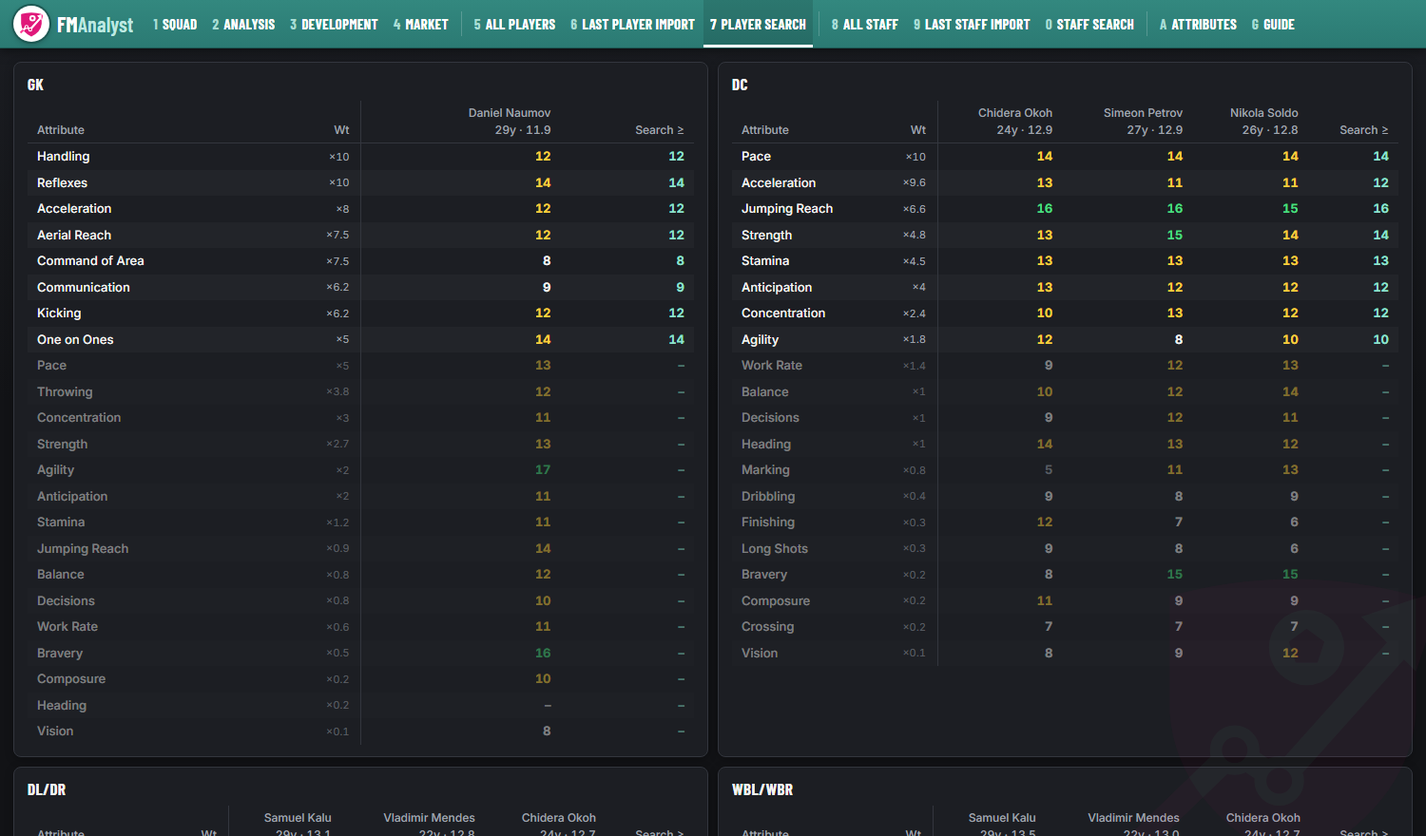
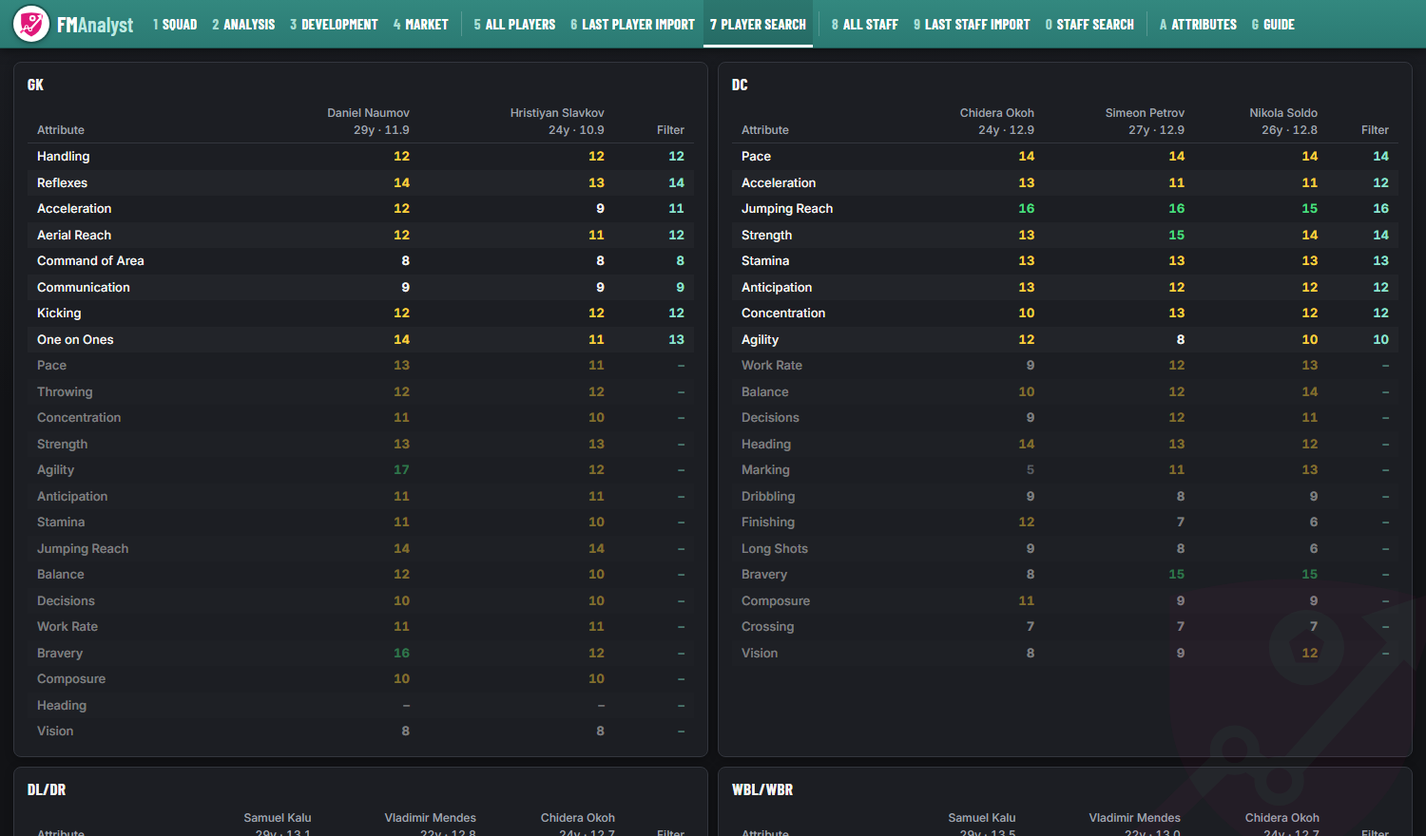
FMAnalyst 1.5.1: one Menu button, About in it, simpler search pages
- A single Menu button (bottom right) replaces Import file…, Saves and the File menu bar: Import file…,
  Open the exports folder, Saves…, About. About (version, settings, project page) left the Guide.
- Player search and Staff search: no weight column; the suggested minimum is now "Filter"; the GK tile
  shows every keeper of yours.
- Attributes: the Weight column is now Value.
- Squad: the Lineup's Hide button is gone.

diff --git a/template.html b/template.html
@@ -87,9 +87,6 @@ __THEME__
   /* ---- Squad: the Lineup and Formations boxes, side by side and one height ---- */
   #squadtop { display: flex; flex-wrap: wrap; gap: 10px; align-items: stretch; margin-bottom: 10px; }
   #squadtop[hidden] { display: none; }
-  #squadtop.closed { align-items: flex-start; }
-  #squadtop.closed #lineup table, #squadtop.closed #lineup .notes, #squadtop.closed #formations { display: none; }
-  #squadtop.closed .ttitle { margin-bottom: 0; }
   #lineup { display: flex; flex: 0 1 auto; flex-direction: column; }
   #lineup table { flex: 1 1 auto; width: auto; height: 100%; }
   #lineup th { color: var(--purple); cursor: default; }
@@ -103,9 +100,6 @@ __THEME__
   #lineup [data-name] { cursor: pointer; }
   #lineup .notes { margin-top: 8px; line-height: 1.7; white-space: normal; }
   .lhead { display: flex; align-items: center; gap: 10px; }
-  .lhead button { padding: 2px 10px; color: var(--fg); font: 600 12px var(--body); background: var(--row); border: 1px solid var(--line);
-                  border-radius: 6px; cursor: pointer; }
-  .lhead button:hover { color: #141414; background: #8fe3cf; }
   #formations { flex: 1 1 380px; min-width: 0; }
   #formations td, #formations th { padding: 3px 8px; }
   #formations tr.f { cursor: pointer; }
@@ -433,31 +427,27 @@ function renderFilters() {
   main.className = "tiles";
   if (!DATA.length) {
     const how = PAGE === "staff_filters"
-      ? "Import staff first: in FM, use the <b>Search - Staff View</b> on a staff search or your club's Staff screen, press <b>F8</b>, then <b>Import file…</b>."
-      : "Import your squad first: press <b>F8</b> on your squad screen in FM, then <b>Import file…</b>.";
+      ? "Import staff first: in FM, use the <b>Search - Staff View</b> on a staff search or your club's Staff screen, press <b>F8</b>, then <b>Menu → Import file…</b>."
+      : "Import your squad first: press <b>F8</b> on your squad screen in FM, then <b>Menu → Import file…</b>.";
     main.innerHTML = `<div class="tile"><div class="ttitle">Nothing to show yet</div><p>${how}</p></div>`;
     return;
   }
   const who = p => `<th class="num">${esc(p.name)}<br><span class="sub">${[p.club, p.age != null && `${p.age}y`, p.score.toFixed(1)].filter(Boolean).join(" · ")}</span></th>`;
-  const line = row => `<tr class="${row.min == null ? "minor" : ""}"><td>${row.attr}</td><td class="num wt">×${row.weight}</td>` +
+  const line = row => `<tr class="${row.min == null ? "minor" : ""}"><td>${row.attr}</td>` +
     row.values.map((v, i) => `<td class="num ${v == null ? "" : attrTier(v)}">${row.labels ? row.labels[i] : v ?? "–"}</td>`).join("") +
     `<td class="num search">${row.min ?? "–"}</td></tr>`;
   main.innerHTML = DATA.map(entry => `<div class="tile">
     <div class="ttitle">${entry.pos}${entry.title ? ` <span class="sub">· ${entry.title}</span>` : ""}</div>
-    <table><thead><tr><th>Attribute</th><th class="num wt">Wt</th>${entry.players.map(who).join("")}<th class="num search">Search ≥</th></tr></thead>
+    <table><thead><tr><th>Attribute</th>${entry.players.map(who).join("")}<th class="num search" title="the minimum to set in FM's search filter (Is At Least)">Filter</th></tr></thead>
     <tbody>${entry.rows.map(line).join("")}</tbody></table></div>`).join("");
 }
 // Squad page: the lineup panel above the table. LINEUP = { slots: [{ label, pos, left, senior: [[players] ×3],
 // extra: { youth, intake } }], extraCols, spare, spareYouth, loanOut } (grid() in score.py)
-const LINEUP_STORE = "fm:__SAVE__:lineup";
 function renderLineup() {
   const box = document.getElementById("lineup"), d = LINEUP, n = 3;
   if (!d) return;
-  let closed = false;
-  try { closed = localStorage.getItem(LINEUP_STORE) === "closed"; } catch (e) {}
   const top = document.getElementById("squadtop");
   top.hidden = false;
-  top.className = closed ? "closed" : "";
   const surname = name => name.split(" ").pop();
   const extra = d.extraCols;
   const entry = (p, youth) => `<div data-name="${esc(p.name)}">` +
@@ -469,17 +459,13 @@ function renderLineup() {
   const heads = ["Starter", "Backup", "Third"];
   const list = (title, ps) => ps.length ? `<div><span class="sub">${title}:</span> ${ps.map(p =>
     `<span title="${esc(p.name)}" data-name="${esc(p.name)}">${esc(surname(p.name))}</span> <span class="sub">${p.age}y ${p.pos} ${FMT.f1(p.v)}</span>`).join(" · ")}</div>` : "";
-  box.innerHTML = `<div class="ttitle lhead">Lineup <button id="ltoggle">${closed ? "Show" : "Hide"}</button></div><table>
+  box.innerHTML = `<div class="ttitle lhead">Lineup</div><table>
     <thead><tr><th></th>${heads.map(h => `<th>${h}</th>`).join("")}${extra.map((c, i) =>
       `<th class="${i ? "" : "split"}" title="${esc(c.title)}">${esc(c.label)}</th>`).join("")}</tr></thead>
     <tbody>${d.slots.map(s => `<tr><td class="slot" title="scored as ${esc(s.pos)}${s.left ? ", left-footed only" : ""}">${esc(s.label)}</td>` +
       s.senior.map((ps, i) => cell(ps, false, i)).join("") + extra.map((c, i) => cell(s.extra[c.key], true, n + i)).join("") + "</tr>").join("")}</tbody>
   </table>
   <div class="notes">${list("Not placed", d.spare)}${list("Youngsters not placed", d.spareYouth)}${list("Out on loan", d.loanOut)}</div>`;
-  document.getElementById("ltoggle").onclick = () => {
-    try { localStorage.setItem(LINEUP_STORE, closed ? "open" : "closed"); } catch (e) {}
-    renderLineup();
-  };
   renderFormations();
 }
 // Beside the lineup: how the squad fits common formations (formations() in score.py), best first; a row opens its XI
@@ -693,7 +679,7 @@ function renderAttributes() {
       " <b>Open this page in the app to save, import or export.</b>"}</div>
   </div>
   <div class="tile wide"><div class="ttitle">Attributes <span class="sub">${counted.length} attributes count${empty.length ? ` · <b class="warn">nothing counts at ${esc(empty.join(", "))}</b>` : ""}</span></div>
-    <div class="wscroll"><table class="weights"><thead><tr><th>Attribute</th><th class="num">Weight</th>${cols.map(p => `<th class="num">${esc(p)}</th>`).join("")}</tr></thead>
+    <div class="wscroll"><table class="weights"><thead><tr><th>Attribute</th><th class="num">Value</th>${cols.map(p => `<th class="num">${esc(p)}</th>`).join("")}</tr></thead>
     <tbody>${counted.map(row).join("")}${unused.length ? `<tr class="divider"><td colspan="${cols.length + 2}">Not counted: give one a weight to count it</td></tr>` + unused.map(row).join("") : ""}</tbody></table></div>
     <div class="sub">Player searches exported with the Search - Outfield Players View have 18 attributes. A position needs 85% of its
       weight known to score a player, so weight the others (not in searches) lightly or searched players may not be scored.</div></div>`;

diff --git a/app.py b/app.py
@@ -2,7 +2,7 @@
 
     python app.py
 
-Click "Import file…" (bottom right of every page), choose an export, and it's imported straight away: dated with
+Open Menu → "Import file…" (bottom right of every page), choose an export, and it's imported straight away: dated with
 the date in the exporter's file name (export_date), as your squad if the file name
 starts with "First Team"/"Squad", else as a search named after the file. Then score.py runs and the 'last' page shows.
 Needs pywebview (pip install pywebview).
@@ -18,7 +18,6 @@ import time
 from pathlib import Path
 
 import webview
-from webview.menu import Menu, MenuAction
 
 import import_export
 import score
@@ -84,7 +83,7 @@ class App:
     # --- importing ------------------------------------------------------------------------------------------------
 
     def pick_file(self):
-        """The button (or File → Import a file…): choose an export and import it straight away."""
+        """Menu → Import file…: choose an export and import it straight away."""
         if self.save is None:  # still on the setup page
             return
         folder = self.exports if self.exports.is_dir() else Path.home()
@@ -224,7 +223,7 @@ class App:
             raise ValueError(f"There's already a save called {name}: give this one another name, e.g. {name}-2.")
         score.new_save(name, club, division)
         self.commit(f"{name}: new save")
-        self.switch_save(name, f"New save {name} for {club}. Now import your squad: press F8 on it in FM, then Import file…")
+        self.switch_save(name, f"New save {name} for {club}. Now import your squad: press F8 on it in FM, then Menu → Import file…")
 
     # --- weights (the Attributes page) ----------------------------------------------------------------------------
 
@@ -307,6 +306,11 @@ class App:
             raise ValueError(f"Couldn't read {path.name}: {e}")
         return {"values": values, "file": path.name}
 
+    def about(self):
+        """Menu → About: the version, this save's settings and the project page, as the page shows them."""
+        tile = score.settings_tile(self.config, score.load_toml(self.save_dir / "save.toml") if self.save_dir else {}, self.save or "–")
+        return {"title": f"FMAnalyst {score.VERSION}", "html": tile["text"]}
+
     def open_exports(self):
         if self.exports.is_dir() and sys.platform == "win32":
             os.startfile(self.exports)
@@ -354,7 +358,7 @@ class App:
         self.save, self.save_dir = name, score.ROOT / "saves" / name
         self.commit(f"{name}: new save")
         self.window.set_title(window_title(name))
-        self.notice = (f"All set up for {club}. Now import your squad: press F8 on it in FM, then Import file…", False)
+        self.notice = (f"All set up for {club}. Now import your squad: press F8 on it in FM, then Menu → Import file…", False)
         self.show_soon(html=START_HTML)
 
     def browse_folder(self, current):
@@ -378,9 +382,6 @@ class App:
         self.window = webview.create_window(title, js_api=MainApi(self), width=1400, height=900, **where)
         self.window.events.loaded += self.on_load
         self.window.events.closed += lambda: os._exit(0)  # closing the window ends the app
-        menu = [Menu("File", [MenuAction("Import a file…", self.pick_file),
-                              MenuAction("Saves…", lambda: self.window.evaluate_js("window.fmSaves && fmSaves()")),
-                              MenuAction("Open the exports folder", self.open_exports)])]
         # The shield in the title bar and taskbar, from source too (not Python's icon). Its own app ID keeps
         # Windows from grouping the window with other Python programs on the taskbar.
         if sys.platform == "win32":
@@ -390,7 +391,7 @@ class App:
             except (AttributeError, OSError):
                 pass
         icon = score.APP / "docs" / "FMAnalyst.ico"
-        webview.start(menu=menu, icon=str(icon) if icon.exists() else None)
+        webview.start(icon=str(icon) if icon.exists() else None)  # no menu bar: the page's Menu button has it all
 
 
 def log_error(what):
@@ -454,6 +455,12 @@ class MainApi:
     def export_weights(self, attrs=()):
         return self._reply(self._app.export_weights, attrs)
 
+    def about(self):
+        return self._reply(self._app.about)
+
+    def open_exports(self):
+        return self._call(self._app.open_exports)
+
     def import_weights(self):
         return self._reply(self._app.import_weights)
 
@@ -492,7 +499,7 @@ button.go { background: #e0187a; color: #fff; padding: 10px 22px; font-size: 15p
 </style></head><body><div class="box">
 <h1>Welcome to FMAnalyst</h1>
 <p class="lead">A few details about your Football Manager save, and you're ready. You can add more saves later with
-the <b>Saves</b> button.</p>
+<b>Menu → Saves</b> (bottom right).</p>
 <label for="club">Club you manage</label>
 <input id="club" placeholder="e.g. Man Utd" autofocus>
 <div class="hint">Exactly as FM writes it in its player lists: "Man Utd", not "Manchester United".</div>
@@ -523,24 +530,46 @@ document.addEventListener("keydown", e => { if (e.key === "Enter") go(); });
 
 START_HTML = """<!doctype html><html><body style="font: 15px Inter, 'Segoe UI', system-ui; background: #16181c; color: #f4f4f2; padding: 40px">
 <h2>No players yet</h2><p>In FM, point at a player list and press F8 (Ctrl+F8 first, to add every attribute).</p>
-<p>Then click <b>Import file…</b> at the bottom right and choose the export.</p></body></html>"""
+<p>Then open <b>Menu</b> at the bottom right, click <b>Import file…</b> and choose the export.</p></body></html>"""
 
 TOOLBAR_JS = """(() => {
   if (document.getElementById("fm-import")) return;
   const bar = document.createElement("div");
   bar.style.cssText = "position:fixed;right:16px;bottom:16px;z-index:9999;display:flex;gap:6px;align-items:center;" +
     "padding:6px;border-radius:8px;background:#16181c;box-shadow:0 2px 8px #0008;font:14px Inter,'Segoe UI',system-ui,sans-serif";
-  const b = document.createElement("button");
-  b.id = "fm-import"; b.textContent = "Import file…"; b.title = "Choose an FM27 Exporter file to import";
-  // each button gets its own colours (reading cssText back gives rgb(), so it can't be edited by search and replace)
   const BUTTON = "padding:7px 16px;border:0;border-radius:6px;font:600 14px Inter,'Segoe UI',system-ui,sans-serif;cursor:pointer;";
-  b.style.cssText = BUTTON + "background:#e0187a;color:#fff";
-  b.onclick = () => window.pywebview && pywebview.api.pick_file();
-  const sv = document.createElement("button");
-  sv.id = "fm-saves-button"; sv.textContent = "Saves"; sv.title = "Switch to another save, or start a new one";
-  sv.style.cssText = BUTTON + "background:#33363e;color:#f4f4f2";
-  sv.onclick = () => window.fmSaves();
-  bar.append(b, sv);
+  // Menu: Import file…, Open the exports folder, Saves…, About (it opens upwards, above the button)
+  const m = document.createElement("button");
+  m.id = "fm-import"; m.title = "Import a file, the exports folder, your saves, about";
+  m.innerHTML = '<svg width="16" height="16" viewBox="0 0 16 16" style="vertical-align:-3px;margin-right:8px" aria-hidden="true">' +
+    '<path d="M2 3.5h12M2 8h12M2 12.5h12" stroke="#fff" stroke-width="2" stroke-linecap="round"/></svg>Menu';
+  m.style.cssText = BUTTON + "background:#e0187a;color:#fff";
+  const list = document.createElement("div");
+  list.id = "fm-menu";
+  list.style.cssText = "position:absolute;right:6px;bottom:52px;display:none;min-width:240px;padding:6px;border:1px solid #33363e;" +
+    "border-radius:10px;background:#16181c;box-shadow:0 8px 24px #000a";
+  const item = (text, hint, run) => {
+    const it = document.createElement("button");
+    it.style.cssText = "display:block;width:100%;padding:8px 12px;border:0;border-radius:6px;background:transparent;color:#f4f4f2;" +
+      "font:500 14px Inter,'Segoe UI',system-ui,sans-serif;text-align:left;cursor:pointer";
+    it.innerHTML = text + (hint ? `<div style="color:#a0a6b0;font-size:12px;font-weight:400">${hint}</div>` : "");
+    it.onmouseenter = () => it.style.background = "#2a2d34";
+    it.onmouseleave = () => it.style.background = "transparent";
+    it.onclick = () => { list.style.display = "none"; run(); };
+    return it;
+  };
+  const line = () => { const l = document.createElement("div"); l.style.cssText = "height:1px;margin:4px 6px;background:#33363e"; return l; };
+  list.append(
+    item("Import file…", "an FM27 Exporter file (F8 in FM)", () => window.pywebview && pywebview.api.pick_file()),
+    item("Open the exports folder", "where FM27 Exporter saves its files", () => window.pywebview && pywebview.api.open_exports()),
+    line(),
+    item("Saves…", "switch to another save, or start one", () => window.fmSaves()),
+    item("About", "version, your settings, project page", () => window.fmAbout()));
+  m.onclick = e => { e.stopPropagation(); list.style.display = list.style.display === "none" ? "block" : "none"; };
+  document.addEventListener("click", e => { if (!list.contains(e.target)) list.style.display = "none"; });
+  document.addEventListener("keydown", e => { if (e.key === "Escape") list.style.display = "none"; });
+  bar.style.position = "fixed";
+  bar.append(m, list);
 
   // Elsewhere and Staff pages: Clear old lists. First click says how many, a second click within 5 s clears.
   const page = location.href.split(/[\\\\/]/).pop().split(/[?#]/)[0];
@@ -605,6 +634,31 @@ TOOLBAR_JS = """(() => {
     box.append(error, buttons);
     shade.append(box);
     document.body.append(shade);
+  };
+  window.fmAbout = async () => {
+    document.getElementById("fm-about")?.remove();
+    const r = await pywebview.api.about();
+    if (!r || r.error) { window.fmNotice((r && r.error) || "Couldn't show About.", true); return; }
+    const shade = css(make("div"), "position:fixed;inset:0;z-index:10000;background:#000a;display:flex;align-items:center;justify-content:center;font:14px Inter,'Segoe UI',system-ui,sans-serif");
+    shade.id = "fm-about";
+    shade.onclick = e => { if (e.target === shade) shade.remove(); };
+    shade.tabIndex = -1;
+    shade.addEventListener("keydown", e => { e.stopPropagation(); if (e.key === "Escape") shade.remove(); });
+    const box = css(make("div"), "background:#16181c;color:#f4f4f2;border:1px solid #33363e;border-radius:10px;padding:20px 22px;width:620px;max-width:92vw;max-height:85vh;overflow:auto;box-shadow:0 8px 30px #000;line-height:1.55");
+    box.append(css(make("h3", r.result.title), "margin:0 0 10px;font-size:16px"));
+    const body = make("div");
+    body.innerHTML = r.result.html;
+    body.querySelectorAll("table").forEach(t => t.style.cssText = "width:100%;table-layout:fixed;border-collapse:collapse;margin-bottom:10px");
+    body.querySelectorAll("td").forEach((td, i) => td.style.cssText = "padding:5px 8px;border-bottom:1px solid #2a2d34;vertical-align:top;white-space:normal;overflow-wrap:anywhere;text-align:left" +
+      (i % 2 ? "" : ";width:150px"));  // long folder paths wrap instead of scrolling
+    body.querySelectorAll("td.text").forEach(td => td.style.color = "#a0a6b0");
+    body.querySelectorAll("a").forEach(a => a.style.color = "#8fe3cf");
+    const close = css(make("button", "Close"), "display:block;margin:14px 0 0 auto;padding:7px 16px;border:0;border-radius:6px;background:#33363e;color:#f4f4f2;font:inherit;cursor:pointer");
+    close.onclick = () => shade.remove();
+    box.append(body, close);
+    shade.append(box);
+    document.body.append(shade);
+    shade.focus();
   };
   window.fmNotice = (text, error) => {
     let n = document.getElementById("fm-notice");

diff --git a/score.py b/score.py
@@ -38,7 +38,7 @@ APP = Path(getattr(sys, "_MEIPASS", Path(__file__).parent))
 ROOT = Path(os.environ["FMANALYST_HOME"]) if os.environ.get("FMANALYST_HOME") else \
     documents() / "FMAnalyst" if getattr(sys, "frozen", False) else Path(__file__).parent
 CONFIG = ROOT / "config.toml"
-VERSION = "1.5.0"  # the app's version: the window title and the guide show it; the release tag is v<VERSION>
+VERSION = "1.5.1"  # the app's version: the window title and the guide show it; the release tag is v<VERSION>
 PROJECT_URL = "https://github.com/angelkirchev/FMAnalyst"
 PAGES = ["squad", "analysis", "development", "charts", "elsewhere", "last", "filters", "staff", "last_staff", "staff_filters",
          "attributes", "guide"]  # keys 1-9, then 0, then a and g, in this order
@@ -448,11 +448,11 @@ def player_cols(w, with_club):
 
 
 def filters(squad, w):
-    """The player search page: per position, the squad's best there (three, one for GK) and a suggested FM search
+    """The player search page: per position, the squad's best there (three; every keeper for GK) and a suggested FM search
     minimum for the attributes that carry most of the position's weight (search_attrs): their average, rounded."""
     pages = []
     for pos, weights in {"GK": w["gk"], **w["outfield"]}.items():
-        top = sorted((r for r in squad if r.get(pos) is not None), key=lambda r: r[pos], reverse=True)[:1 if pos == "GK" else 3]
+        top = sorted((r for r in squad if r.get(pos) is not None), key=lambda r: r[pos], reverse=True)[:None if pos == "GK" else 3]
         if not top:
             continue
         searched = search_attrs(weights)
@@ -882,7 +882,7 @@ def development(rows, players, obs_files, managed, squad):
 
 
 def settings_tile(config, cfg, save):
-    """The guide's last tile: this save's main settings, and where to change them."""
+    """Menu → About: the version, this save's main settings, where to change them, and the project page."""
     rows = [("App version", f"FMAnalyst {VERSION}"), ("Save", save), ("Club", cfg.get("managed_club", "–")), ("Attribute weights", "your own (Attributes page; every save)" if ATTRIBUTES_FILE.is_file() else "default"),
             ("Currency", config.get("currency", "–")), ("Exports folder", config.get("exports_dir") or "found under Documents"),
             ("Data folder", str(ROOT))]
@@ -890,7 +890,7 @@ def settings_tile(config, cfg, save):
     table += (f'<tr><td class="text">Project page</td><td><a href="{PROJECT_URL}" target="_blank" rel="noopener">'
               f'{PROJECT_URL.removeprefix("https://")}</a> (updates, README, report a problem)</td></tr>')
     return {"key": "", "title": "About and your settings",
-            "text": f"<table>{table}</table>Switch or start saves with <b>Saves</b> at the bottom right. Everything else is in "
+            "text": f"<table>{table}</table>Switch or start saves with <b>Menu → Saves</b> (bottom right). Everything else is in "
                     f"<b>config.toml</b> (this computer) and <b>saves\\{html.escape(save)}\\save.toml</b> (this save) in the data "
                     f"folder: edit them with Notepad, then restart the app."}
 
@@ -967,7 +967,7 @@ def build(save, config):
         "last_staff": (staff_cols(roles), last_staff),
         "staff_filters": ([], staff_filters(staff_rows, roles, words, w.get("staff_names", {}))),
         "attributes": ([], attributes_page(cfg, w, rows, save_dir)),
-        "guide": ([], GUIDE + [settings_tile(config, cfg, save)]),
+        "guide": ([], GUIDE),
     }
 
 
@@ -1028,12 +1028,12 @@ def write_pages(save, config, cfg, pages):
 
 
 # The guide page (key g): how to use the app and each page. Simple HTML; shown as tiles by template.html's renderGuide.
-# A tile with a key links to that page. The last tile, "Your settings", is added by settings_tile().
+# A tile with a key links to that page. The version and settings are in Menu → About (settings_tile()).
 GUIDE = [
     {"key": "", "title": "Getting started",
      "text": "<ol><li>In FM, open your <b>squad</b> screen with the <b>Squad - Outfield Players View</b> (see the README for the views).</li>"
              "<li>Point the mouse at the list and press <b>F8</b>: FM27 Exporter saves the list as a file.</li>"
-             "<li>Here, click <b>Import file…</b> (bottom right, or <b>File → Import a file…</b>) and pick that file.</li></ol>"
+             "<li>Here, open <b>Menu</b> (bottom right) → <b>Import file…</b> and pick that file.</li></ol>"
              "The app works out what it is (your squad, a search, staff), scores everyone and opens the right page. "
              "Import your squad first; after that, import searches and shortlists whenever you're looking for players."},
     {"key": "", "title": "Importing: what goes where",
@@ -1077,7 +1077,7 @@ GUIDE = [
              "position; an empty slot (often DM, MC or AMC) is filled from Third by whoever plays it best (marked <b>↑</b>).<br>"
              "<b>Formations</b> (top right): 20 common systems ranked by how well your squad fits them. <b>XI</b> = the average "
              "score of your best eleven for that shape, <b>Depth</b> = a second eleven's, <b>Weakest spot</b> = where that "
-             "eleven is thinnest. Click a formation to see its eleven. <b>Hide</b> folds both boxes away.<br>"
+             "eleven is thinnest. Click a formation to see its eleven.<br>"
              "<b>Table</b> (below): every player at your club with all his scores. Sort by clicking a heading, filter with the "
              "Search box (see <b>Searching and filtering</b>).<br>"
              "<b>Use it to:</b> spot thin positions (no backup), surplus (a long Third), who's next in line, and the shape that suits you."},
@@ -1125,10 +1125,10 @@ GUIDE = [
              "position is worth scouting."},
     {"key": "7", "title": "Player search",
      "text": "<b>Shows:</b> for each position, your best players there (3, or 1 for GK) and the attributes that matter most, "
-             "most important first, with a suggested minimum (<b>Search ≥</b>) = the average of your best players.<br>"
+             "most important first, with a suggested minimum (<b>Filter</b>) = the average of your best players.<br>"
              "<b>Use it to:</b> set up FM's player search to find players better than yours.<br>"
              "<b>How:</b> in FM's search add <b>Position Is Accomplished At</b> that position, then each highlighted attribute "
-             "<b>Is At Least</b> its Search ≥ value. Dimmed attributes don't need a minimum. Too few results? Lower the "
+             "<b>Is At Least</b> its Filter value. Dimmed attributes don't need a minimum. Too few results? Lower the "
              "smaller minimums first. The minimums rise as your squad improves."},
     {"key": "8", "title": "All staff",
      "text": "<b>Shows:</b> every staff member you've imported, scored for each job (FM's words like Good = 13, Very Good = 16): "
@@ -1144,7 +1144,7 @@ GUIDE = [
      "text": "<b>Shows:</b> per job, the best staff you've imported (from any club) and the attributes that matter most for "
              "that job, with a suggested minimum as FM's word (e.g. Good).<br>"
              "<b>Use it to:</b> set up FM's staff search when hiring: set each highlighted attribute to at least its "
-             "<b>Search ≥</b> word. The more staff searches you import, the better the minimums get."},
+             "<b>Filter</b> word. The more staff searches you import, the better the minimums get."},
     {"key": "a", "title": "Attributes",
      "text": "<b>Shows:</b> one weight per attribute, 1–20 like FM's attributes, for every position at once (keepers too), and "
              "what it comes to at each position: weight × FM's CA cost there, as the attribute's share of that position's "
@@ -1165,7 +1165,9 @@ GUIDE = [
              "<li>several at once, with spaces: <b>age&lt;=23 best=ST vs&gt;=90</b></li></ul>"
              "The count next to the box shows how many match. Click a column heading to sort (again to reverse)."},
     {"key": "", "title": "Saves, folders and mistakes",
-     "text": "<ul><li><b>Saves</b> (bottom right): switch between FM saves, or start one for a new game or club.</li>"
+     "text": "<ul><li><b>Menu</b> (bottom right): <b>Import file…</b>, <b>Open the exports folder</b>, <b>Saves</b> (switch "
+             "between FM saves, or start one for a new game or club) and <b>About</b> (the version, your settings and the "
+             "project page).</li>"
              "<li>Your data is in <b>Documents\\FMAnalyst</b>: settings (config.toml), each save's data and pages. Updating the "
              "app keeps it all.</li>"
              "<li><b>Imported the wrong file?</b> Close the app, delete its files from <b>saves\\&lt;your save&gt;\\obs</b> (their "

diff --git a/README.md b/README.md
@@ -48,7 +48,7 @@ those), then one chart at a time: role score, Technical, Mental, Physical and Go
 
 ![Market page](docs/screenshots/market.png)
 
-**Player search**: your best players per position, and the minimums (**Search ≥**) to type into FM's player search to find
+**Player search**: your best players per position, and the minimums (**Filter**) to type into FM's player search to find
 better ones.
 
 ![Player search page](docs/screenshots/filters.png)
